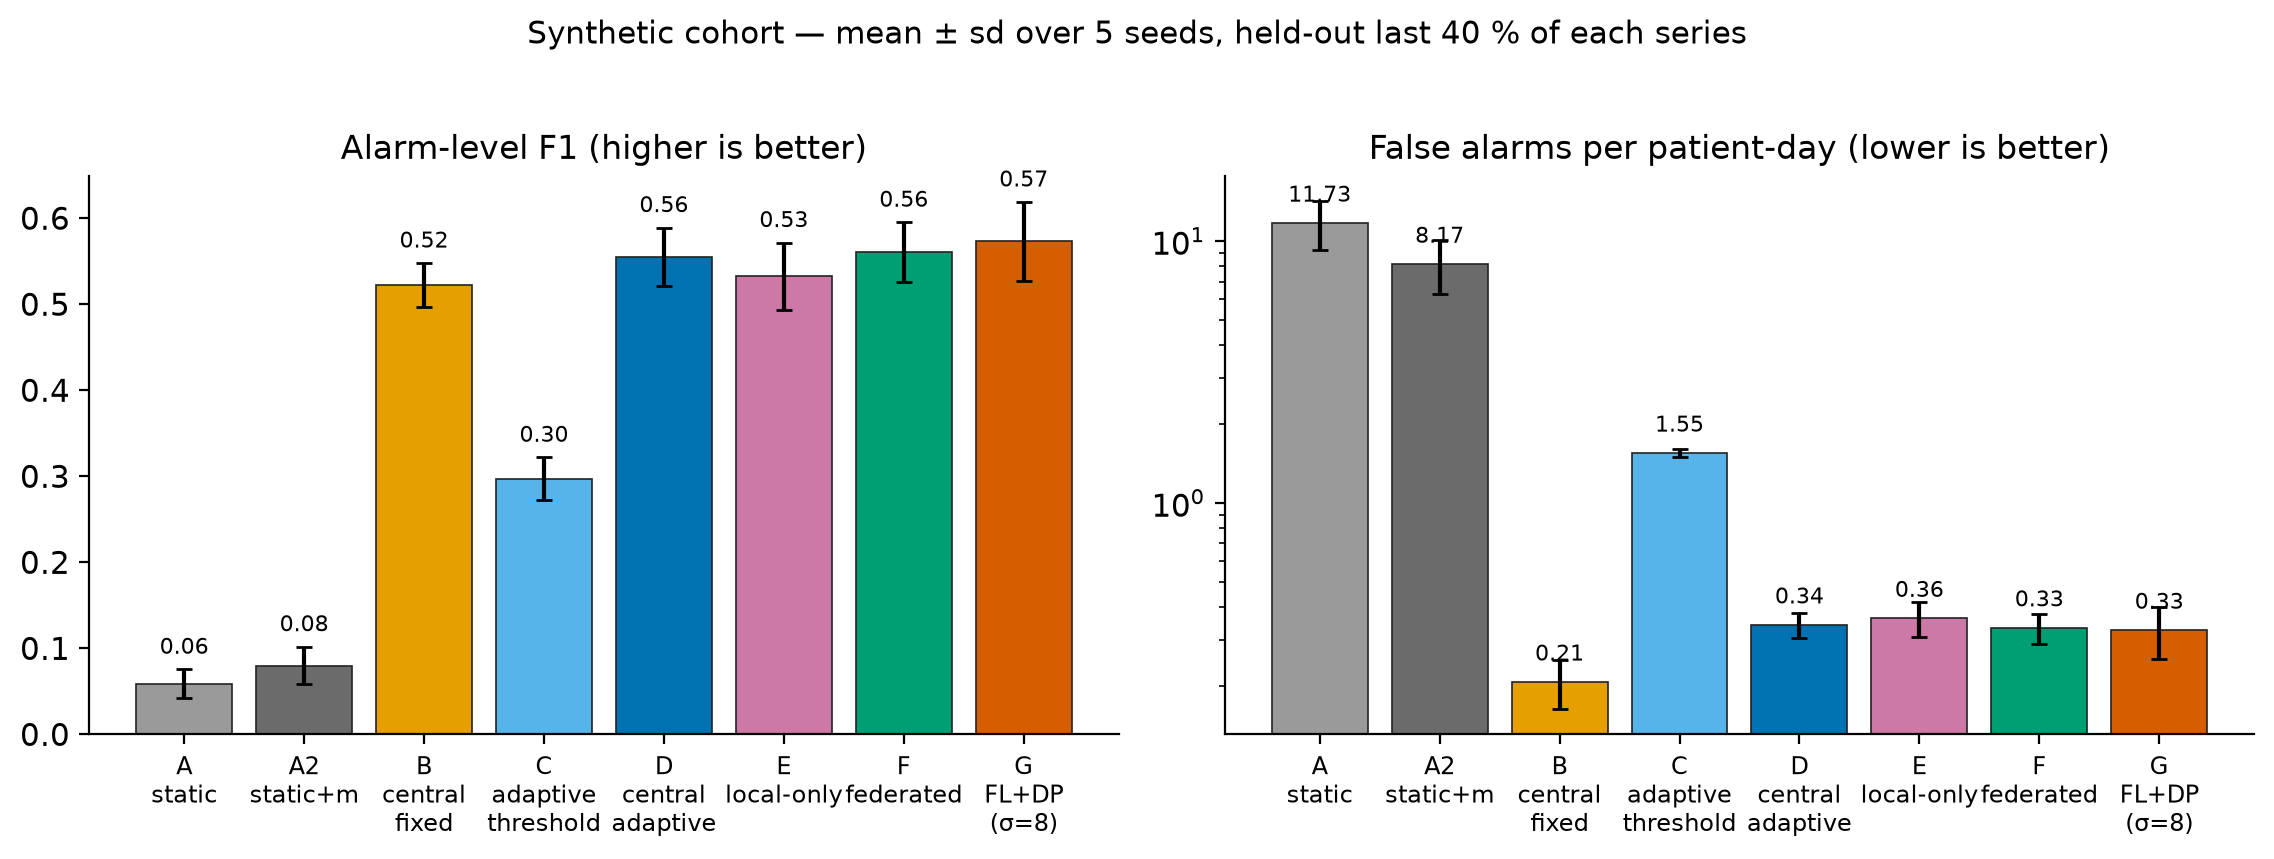
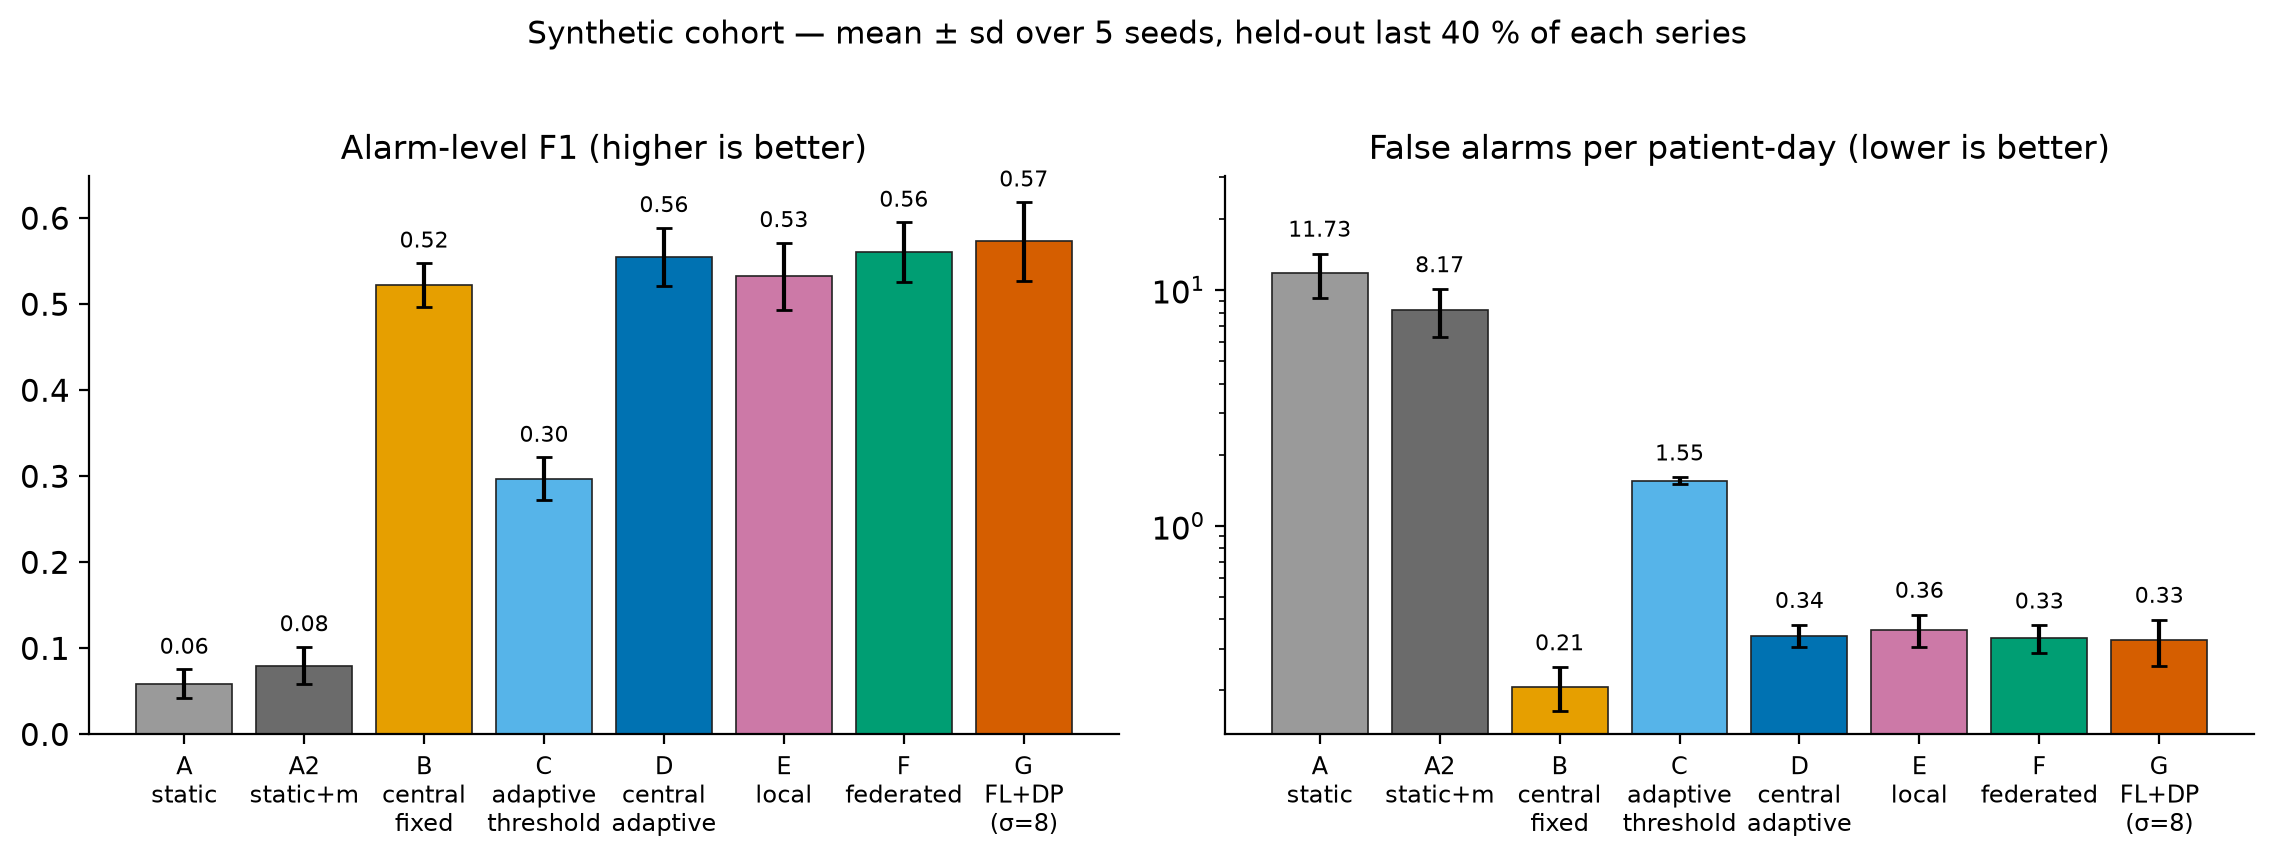
Figures: fix relative imports in the adaptive-example module

diff --git a/src/pvm/figs/adaptive_example.py b/src/pvm/figs/adaptive_example.py
@@ -66,8 +66,8 @@ def plot_adaptive_example(p, title, fname, tau_z=3.5, thr=92.0, j=1):
 
 
 def fig_adaptive_examples():
-    from .data import public as PB
-    from .data import synthetic as SY
+    from ..data import public as PB
+    from ..data import synthetic as SY
     out = {}
     rng = np.random.default_rng(5)
     best = None
@@ -89,7 +89,7 @@ def fig_adaptive_examples():
         for seed in range(30):
             r = np.random.default_rng(seed)
             sid, h, X = cand[seed % len(cand)]
-            from .cohort import Patient, inject_episodes
+            from ..cohort import Patient, inject_episodes
             Xi, y, ep, eps = inject_episodes(X, r, 5.0)
             if any(k in ("hypoxia", "shock", "sepsis") and s >= int(0.6 * len(X)) for s, e, k in eps):
                 p = Patient(f"eicu-{sid}", "site0", Xi, y, ep, eps, 5.0)
